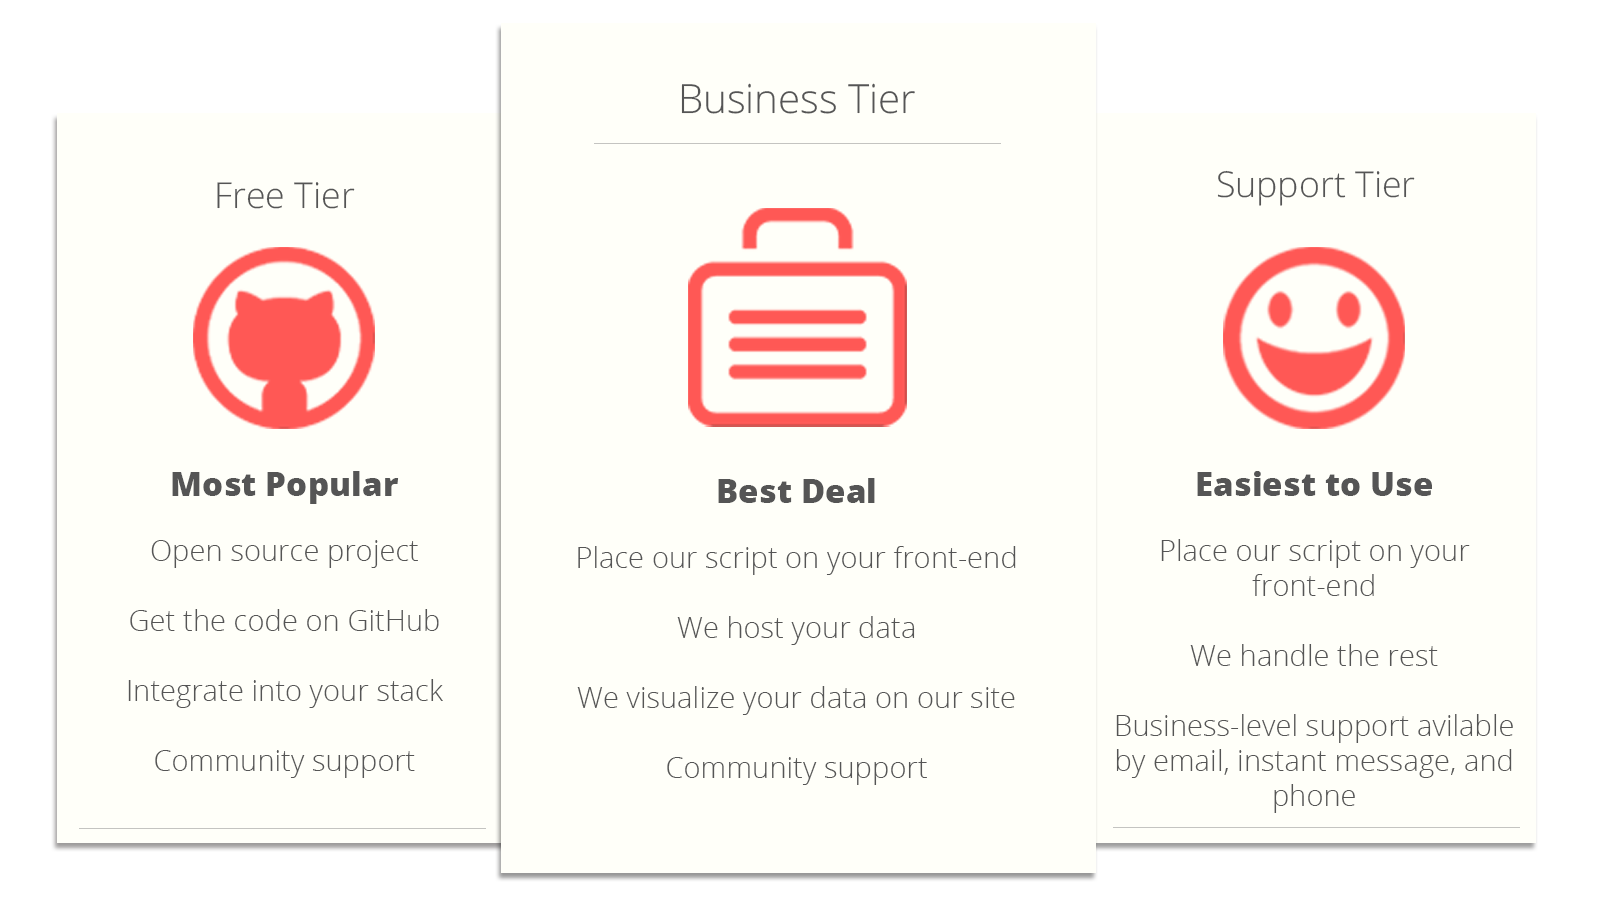
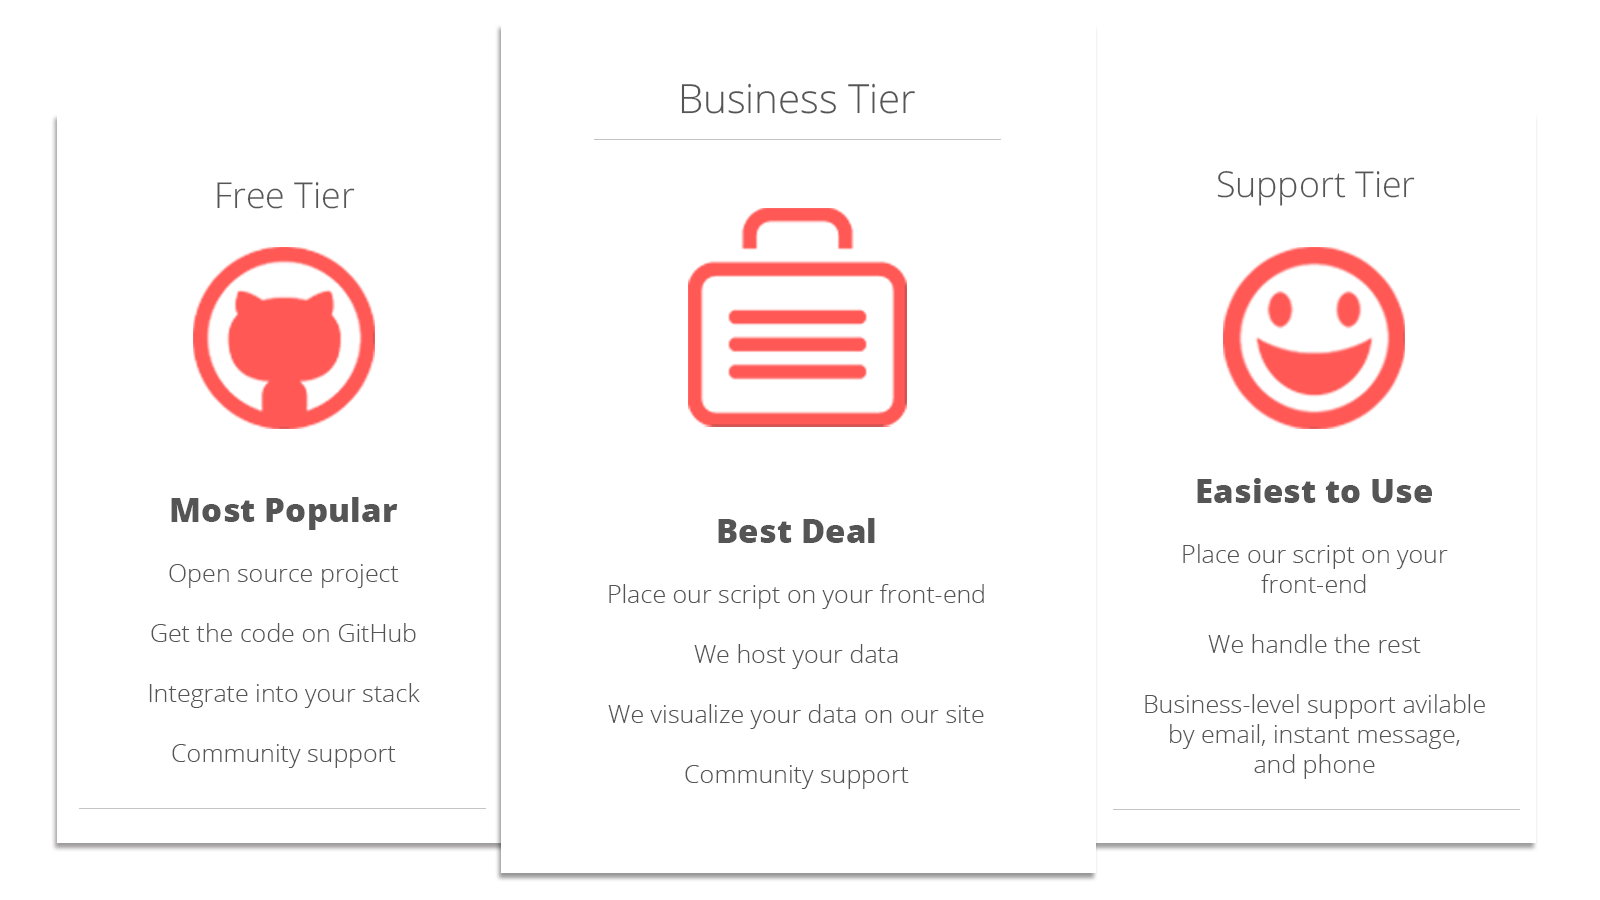
revised landing page

diff --git a/index/index.html b/index/index.html
@@ -119,7 +119,7 @@
 
       </div>
 
-      <img id="heat_img" class="product_image" src="/front_image.png" class="img-responsive" alt="front_image">
+        <img id="heat_img" class="product_image" src="/heatmap.png" class="img-responsive" alt="front_image">
 
 
   	</div><!--/col-->

diff --git a/index/css/styles.css b/index/css/styles.css
@@ -311,6 +311,7 @@ section {
   margin-left:0px;
   margin-right:0px;
   width:100%;
+  border-bottom:solid 1px #cccccc;
 }
 
 #top_text h1{
